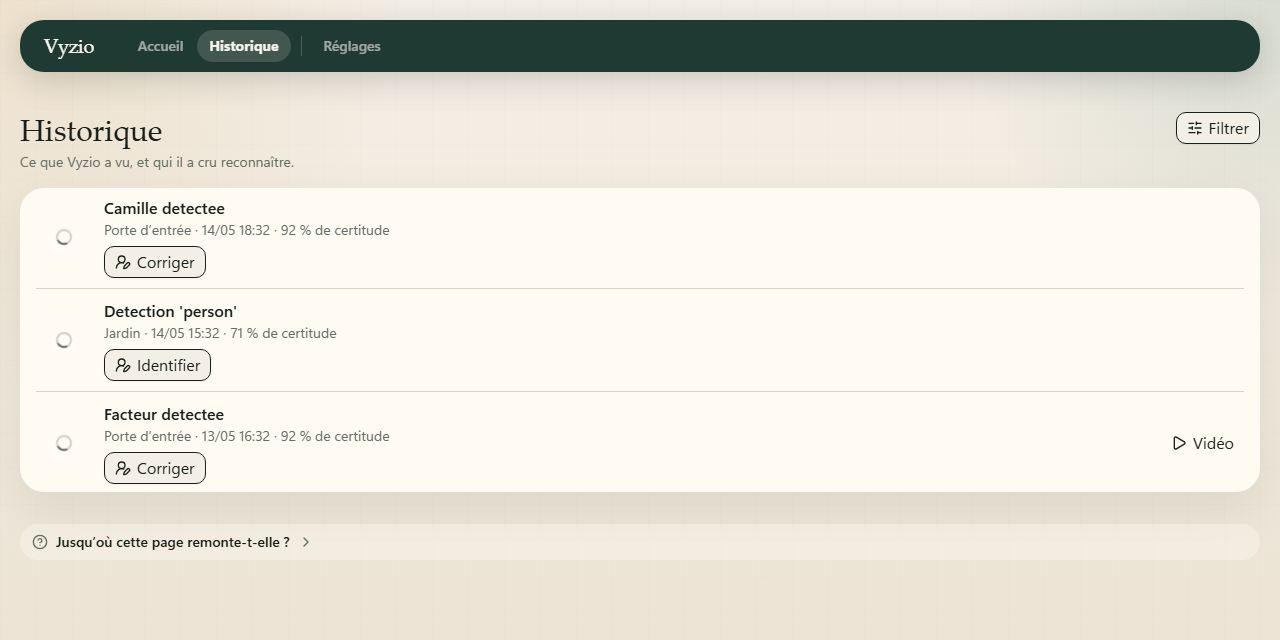
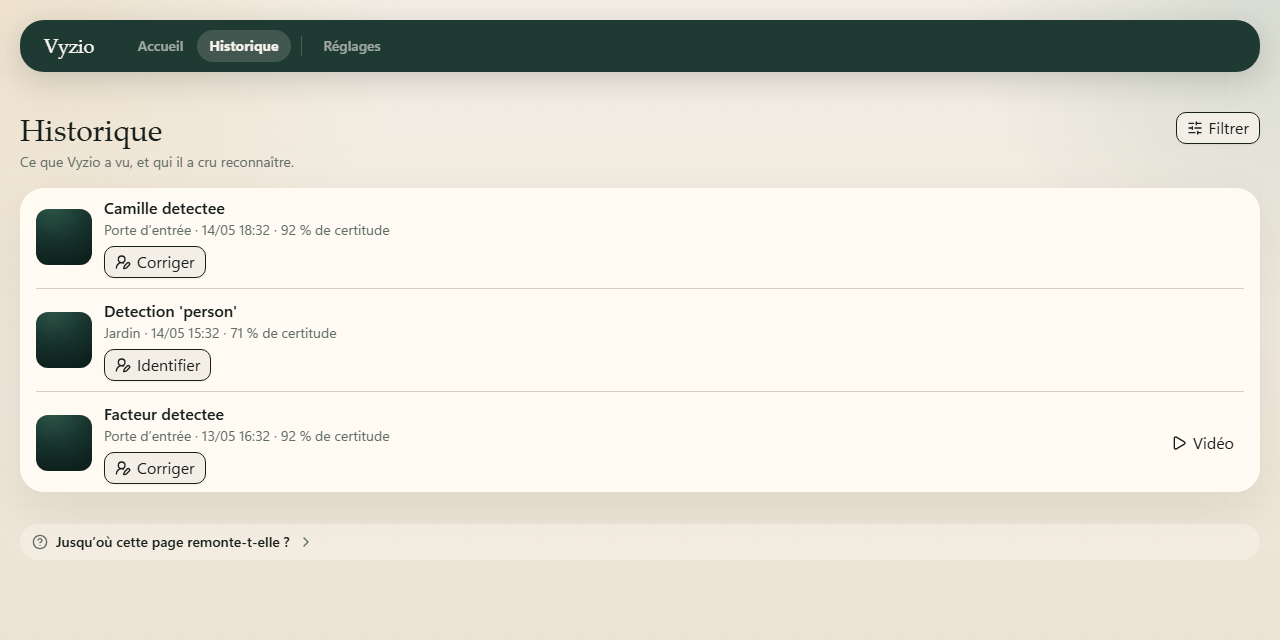
docs: show the home screen, the supported cameras, and one architecture
Four corrections to the rewrite:

The architecture section listed the four backend projects and gave the frontend
a single line, as if only one side had a shape. Both follow the same clean
layering cut into vertical slices, with slices that carry the same names, so it
now reads as one table across the two, followed by the tooling.

The home screen is what a prospective user actually wants to see, configuration
being a one-off. It leads the screenshots now that the live tiles and the
detection thumbnails have something in them.

"Tested on Debian, Ubuntu and Raspberry Pi OS" was not true. Removed rather than
narrowed: no distribution has been tested yet.

The supported brands were nowhere in the README, though vendors/README.md holds
the full matrix. A short table says what Vyzio can drive on each, in plain
words, and points at that file for the protocol detail. It also says outright
that any RTSP or ONVIF camera works, so the list reads as added confidence
rather than as a restriction.

Changed region(s): [[0.0312, 0.625, 0.0938, 0.75], [0.0312, 0.3125, 0.0938, 0.4375], [0.0312, 0.4688, 0.0938, 0.5938]]

diff --git a/README.md b/README.md
@@ -21,6 +21,12 @@ a YAML file in sight.
 
 ## A look at it
 
+<img src="docs/assets/hub.png" alt="Home screen: live cameras, latest detections, alerts and system health">
+
+The home screen is the whole product in one page: what the cameras see, who was recognised and
+when, whether alerts are going out, and what the machine is doing. One camera is on a privacy
+schedule and says so.
+
 Adding a camera: Vyzio searches the network, and asks for nothing it can find on its own.
 
 <p>
@@ -36,8 +42,9 @@ Cameras, and the people the system knows about:
   <img src="docs/assets/people.png" width="420" alt="Known people, and what Vyzio does when it recognises them">
 </p>
 
-> Screenshots are generated from the test fixtures (`pnpm capture:docs`), so they hold no real
-> installation's data and can be regenerated whenever a screen changes.
+> Screenshots are generated from the test fixtures (`task docs:capture`), so they hold no real
+> installation's data and can be regenerated whenever a screen changes. Live tiles and detection
+> thumbnails show a drawn stand-in: nothing here is passed off as a scene a camera saw.
 
 ---
 
@@ -56,6 +63,29 @@ Cameras, and the people the system knows about:
   the network comes back.
 - **Guided setup.** Network discovery finds the cameras, and the interface walks through the
   rest. No configuration file to hand-write.
+
+---
+
+## Cameras
+
+**Any RTSP or ONVIF camera can be added**, by discovery or by typing its address. Beyond the video
+stream, the brands below are recognised on sight and arrive pre-configured, because Vyzio already
+knows how to drive them:
+
+| Brand            | Privacy mode                       | Move the camera | Image settings                    |
+| ---------------- | ---------------------------------- | --------------- | --------------------------------- |
+| TP-Link Tapo     | Hardware cut, lens covered, LED off | Pan-tilt models | Not yet                           |
+| ICSee / XMEye    | Turns away and stops recording      | Yes             | Brightness, contrast, saturation  |
+| V380 PRO         | Turns away and stops recording      | Yes             | Not confirmed on the tested units |
+
+A **hardware cut** means Vyzio asks the camera's own firmware to close the shutter and kill the
+sensor, so nothing is filmed at all. Where a camera offers no such thing, Vyzio physically turns it
+to a wall and stops recording at the same time.
+
+Nothing in that table is taken on trust: a capability is probed on the camera itself before Vyzio
+offers it, and a failed probe hides that one control without affecting the others. The list grows
+one brand at a time, and the full detail, protocol by protocol, is in
+[`src/vyzio/vendors/README.md`](src/vyzio/vendors/README.md).
 
 ---
 
@@ -80,7 +110,6 @@ commitment.
 ## Quick start
 
 > **Requirements.** Linux with Docker Engine 25+ and Docker Compose v2.
-> Tested on Debian, Ubuntu and Raspberry Pi OS (64-bit).
 
 ```bash
 curl -O https://raw.githubusercontent.com/KelianS/vyzio/main/docker-compose.yml
@@ -144,21 +173,33 @@ Changing a password you still know needs none of this: Settings › Access, in t
 
 ## Architecture
 
-Four .NET projects, dependencies pointing inwards only, plus a React dashboard:
+Backend and frontend follow the same shape: clean architecture layers, dependencies pointing
+inwards only, cut into vertical slices by feature rather than by technical kind.
 
-| Project                | Role                                                                |
-| ---------------------- | ------------------------------------------------------------------- |
-| `Vyzio.Core`           | Domain model and rules. Depends on nothing.                          |
-| `Vyzio.Application`    | Use cases, orchestration, ports.                                     |
-| `Vyzio.Infrastructure` | Adapters: EF Core, Frigate, camera protocols, notification channels. |
-| `Vyzio.Api`            | Minimal API endpoints and composition root.                          |
-| `src/dashboard`        | React 19 + TypeScript + Vite, tested with Vitest and Playwright.     |
+| Layer          | Backend (`src/vyzio`)                                              | Frontend (`src/dashboard`)                                 |
+| -------------- | ------------------------------------------------------------------ | ---------------------------------------------------------- |
+| Domain         | `Vyzio.Core`: entities and rules, depending on nothing              | `src/domain`: entities and repository ports                 |
+| Application    | `Vyzio.Application/UseCases`: one folder per slice                  | `src/presentation/<Slice>`: use cases and screens together  |
+| Infrastructure | `Vyzio.Infrastructure`: EF Core, Frigate, camera protocols, channels | `src/infrastructure`: HTTP repositories                     |
+| Entry point    | `Vyzio.Api`: minimal API endpoints and composition root             | `src/App.tsx`: routing and container                        |
+
+The slices carry the same names on both sides (`Access`, `Cameras`, `Hub`, `Notifications`,
+`Profiles`, `Settings`), so a feature is one folder per side and nothing else.
 
 Boundaries, cross-cutting choices and the target state are in [`docs/SAD.md`](docs/SAD.md). Every
 structural decision is recorded as an ADR in [`docs/adr/`](docs/adr/), with the reasoning and the
 options that were rejected.
 
-**Stack.** .NET 10, EF Core, React 19, TypeScript, Vite, Docker Compose, Frigate.
+### Tooling
+
+| | |
+| --- | --- |
+| Backend | .NET 10, EF Core, xUnit, NSubstitute |
+| Frontend | React 19, TypeScript, Vite, Tailwind, Vitest, Testing Library |
+| End to end | Playwright, against the production build and a fake backend |
+| Runtime | Docker Compose, Frigate for video analysis |
+| Commands | `Taskfile.yml` at the root drives both sides, pnpm for the dashboard |
+| Checks | GitHub Actions: build and test, CodeQL, dependency audit, Semgrep |
 
 ---
 
